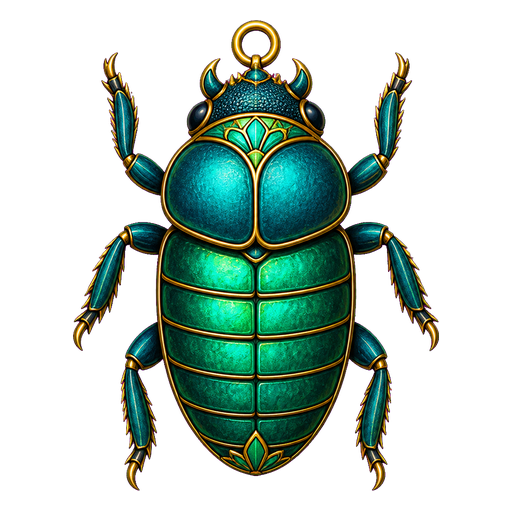
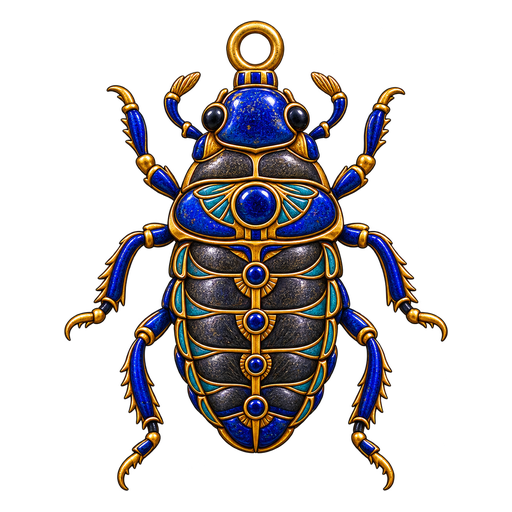
Make the rituals actually run, and give the scarab its new artwork
Every ritual that turned something has been doing nothing at all. ease() cannot
animate a rotation on these actors and fails silently: it builds a transition
for rotation-angle-z, the transition starts and completes on schedule, and the
angle sits at zero the whole way through, because the interval it builds comes
out with no value type and there is nothing to interpolate between.

Measured rather than guessed. Easing opacity on the same actor in the same frame
goes 255 to 98 exactly as asked while the angle beside it never leaves 0, and
assigning that angle directly works. So rotations now run off a timeline that
sets the angle each frame — turn() in charms.js — and the scarab's wings go
+20.1, +35.9, +34.4 degrees across the animation, mirrored on the right, where
before they read 0 at every probe.

That was not one broken ritual but five: the scarab's wing cases, the nazar's
spin, the neko's beckon, the horseshoe's flip and the daruma's nudge are all
rotations. Only the parts that happened to animate opacity, scale or position
were ever visible, which is why the charms looked half alive rather than dead.

The scarab also gets the new artwork. The supplied wing is the RIGHT elytron —
determined by measuring which edge is straight, since the inner edge of an
elytron is the flat one — and the left is that same file mirrored. The second
supplied wing matched its silhouette to within 2% but differed by a mean 44/255
[…]

diff --git a/charms.js b/charms.js
@@ -92,6 +92,43 @@ function px(charm, units) {
  * @param {object} [ctx]     {darumaState, onDarumaAdvance, sparkle}
  * @returns {number} how long the ritual runs, in milliseconds
  */
+/* Rotations have to be animated by hand.
+ *
+ * ease() cannot do them on these actors. It creates a transition for
+ * rotation-angle-z, the transition starts and completes on schedule, and the
+ * angle sits at zero the whole way through — the interval it builds comes out
+ * with no value type, so there is nothing to interpolate between.
+ *
+ * Measured rather than guessed: easing opacity on the same actor in the same
+ * frame goes 255 to 98 exactly as asked, while the angle beside it never
+ * leaves 0, and assigning that angle directly works fine. So a timeline that
+ * sets it each frame does what ease() only appeared to.
+ *
+ * This is why the rituals looked dead. The scarab's wing cases, the nazar's
+ * spin, the neko's beckon, the horseshoe's flip and the daruma's nudge are all
+ * rotations, and every one of them was quietly animating nothing.
+ */
+function turn(actor, prop, from, to, opts = {}) {
+    const {duration = 300, mode = Clutter.AnimationMode.LINEAR,
+           delay = 0, onDone} = opts;
+    const timeline = Clutter.Timeline.new_for_actor(actor, Math.max(1, duration));
+    timeline.set_progress_mode(mode);
+    if (delay)
+        timeline.set_delay(delay);
+
+    actor[prop] = from;
+    timeline.connect('new-frame', () => {
+        actor[prop] = from + (to - from) * timeline.get_progress();
+    });
+    timeline.connect('completed', () => {
+        actor[prop] = to;
+        timeline.stop();
+        onDone?.();
+    });
+    timeline.start();
+    return timeline;
+}
+
 export function playRitual(charm, ctx = {}) {
     const {parts, def} = charm;
     const sparkle = ctx.sparkle ?? (() => {});
@@ -101,12 +138,10 @@ export function playRitual(charm, ctx = {}) {
     case 'emoji': {
         // A flick: two fast rotations about the vertical axis, then a wobble.
         const body = parts.body;
-        body.rotation_angle_y = 0;
-        body.ease({
-            rotation_angle_y: 720,
+        turn(body, 'rotation_angle_y', 0, 720, {
             duration: 900,
             mode: Clutter.AnimationMode.EASE_OUT_QUINT,
-            onComplete: () => {
+            onDone: () => {
                 body.rotation_angle_y = 0;
                 sparkle(3);
             },
@@ -137,9 +172,13 @@ export function playRitual(charm, ctx = {}) {
         // The old lemon drops away; a fresh one rises into its place.
         const lemon = parts.lemon;
         const drop = px(charm, 70);
+        // The tumble is a rotation, so it runs on its own timeline; the fall
+        // and the fade ease perfectly well alongside it.
+        turn(lemon, 'rotation_angle_z', 0, 140, {
+            duration: 520, mode: Clutter.AnimationMode.EASE_IN_QUAD,
+        });
         lemon.ease({
             translation_y: drop,
-            rotation_angle_z: 140,
             opacity: 0,
             duration: 520,
             mode: Clutter.AnimationMode.EASE_IN_QUAD,
@@ -156,12 +195,10 @@ export function playRitual(charm, ctx = {}) {
             },
         });
         // The string swings from losing and regaining the weight.
-        parts.string.ease({
-            rotation_angle_z: -9,
+        turn(parts.string, 'rotation_angle_z', 0, -9, {
             duration: 300,
             mode: Clutter.AnimationMode.EASE_OUT_SINE,
-            onComplete: () => parts.string.ease({
-                rotation_angle_z: 0,
+            onDone: () => turn(parts.string, 'rotation_angle_z', -9, 0, {
                 duration: 700,
                 mode: Clutter.AnimationMode.EASE_OUT_ELASTIC,
             }),
@@ -174,12 +211,10 @@ export function playRitual(charm, ctx = {}) {
         // 1 -> paint the right eye (a wish fulfilled)
         // 2 -> a fresh doll, both eyes blank again
         const state = ctx.darumaState ?? 0;
-        const nudge = () => charm.actor.ease({
-            rotation_angle_z: -8,
+        const nudge = () => turn(charm.actor, 'rotation_angle_z', 0, -8, {
             duration: 180,
             mode: Clutter.AnimationMode.EASE_OUT_SINE,
-            onComplete: () => charm.actor.ease({
-                rotation_angle_z: 0,
+            onDone: () => turn(charm.actor, 'rotation_angle_z', -8, 0, {
                 duration: 900,
                 mode: Clutter.AnimationMode.EASE_OUT_ELASTIC,
             }),
@@ -223,15 +258,13 @@ export function playRitual(charm, ctx = {}) {
                 sparkle(4);
                 return;
             }
-            paw.ease({
-                rotation_angle_z: 26,
+            turn(paw, 'rotation_angle_z', 0, 26, {
                 duration: 200,
                 mode: Clutter.AnimationMode.EASE_IN_OUT_SINE,
-                onComplete: () => paw.ease({
-                    rotation_angle_z: 0,
+                onDone: () => turn(paw, 'rotation_angle_z', 26, 0, {
                     duration: 200,
                     mode: Clutter.AnimationMode.EASE_IN_OUT_SINE,
-                    onComplete: beckon,
+                    onDone: beckon,
                 }),
             });
         };
@@ -241,8 +274,10 @@ export function playRitual(charm, ctx = {}) {
 
     case 'horseshoe': {
         const body = parts.body;
+        turn(body, 'rotation_angle_z', 0, 360, {
+            duration: 460, mode: Clutter.AnimationMode.EASE_OUT_QUAD,
+        });
         body.ease({
-            rotation_angle_z: 360,
             translation_y: -px(charm, 26),
             duration: 460,
             mode: Clutter.AnimationMode.EASE_OUT_QUAD,
@@ -263,12 +298,10 @@ export function playRitual(charm, ctx = {}) {
         // Elytra part like doors and swing closed again. Rotated in the plane
         // rather than out of it: an out-of-plane turn foreshortens the wing
         // cases toward the midline, which reads as closing, not opening.
-        const open = (wing, angle) => wing.ease({
-            rotation_angle_z: angle,
+        const open = (wing, angle) => turn(wing, 'rotation_angle_z', 0, angle, {
             duration: 420,
             mode: Clutter.AnimationMode.EASE_OUT_BACK,
-            onComplete: () => wing.ease({
-                rotation_angle_z: 0,
+            onDone: () => turn(wing, 'rotation_angle_z', angle, 0, {
                 duration: 520,
                 delay: 260,
                 mode: Clutter.AnimationMode.EASE_IN_OUT_SINE,

diff --git a/charm-list.js b/charm-list.js
@@ -126,7 +126,8 @@ export const CHARMS = [
             {key: 'wingL', file: 'scarab-wing-l.svg', pivot: [0.5, 0.31]},
             {key: 'wingR', file: 'scarab-wing-r.svg', pivot: [0.5, 0.31]},
         ],
-        hangPivot: [0.5, 0.12],
+        // Centre of the gold ring on the new artwork, measured off it.
+        hangPivot: [0.5, 0.095],
         cord: {rope: '#123a6b'},
     },
     {

diff --git a/README.md b/README.md
@@ -176,6 +176,21 @@ code guessing one constant for all of them; every piece now carries the same
 moulded loop with its hole at (64, 8) on the 128 grid, so `hangPivot` is one
 number and the guessing is gone.
 
+**ease() cannot animate a rotation on these actors, and fails silently.** It
+builds a transition for `rotation-angle-z`, the transition starts and completes
+on schedule, and the angle sits at zero the whole way through — the interval it
+builds comes out with no value type, so there is nothing to interpolate. Easing
+opacity on the same actor in the same frame works exactly as asked. Every ritual
+that turned something was therefore doing nothing at all, for as long as the
+extension has existed: the scarab's wing cases, the nazar's spin, the neko's
+beckon, the horseshoe's flip, the daruma's nudge. Rotations run off a timeline
+that sets the angle each frame instead — `turn()` in charms.js.
+
+**Two independently generated wings will not match.** The scarab's elytra came
+back from separate renders with the same silhouette to within 2% but a mean
+colour difference of 44/255, which reads immediately as one wing being bluer
+than the other. One wing, mirrored, cannot disagree with itself.
+
 **Knowing when the screen is being captured is one signal, not several.**
 Mutter's remote-access controller is what drives the shell's own sharing
 indicator, so watching it covers the xdg-desktop-portal screencast that Zoom,
